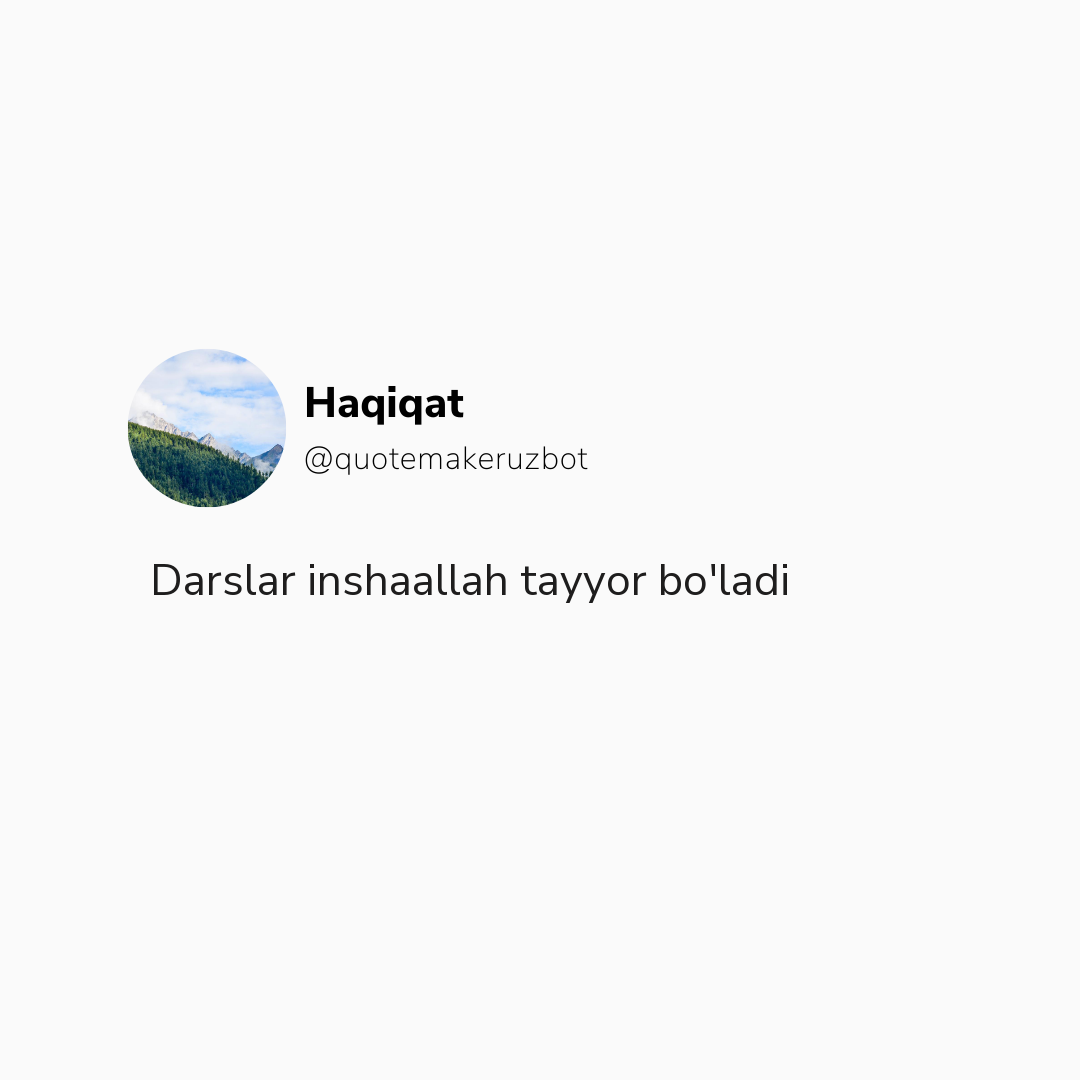
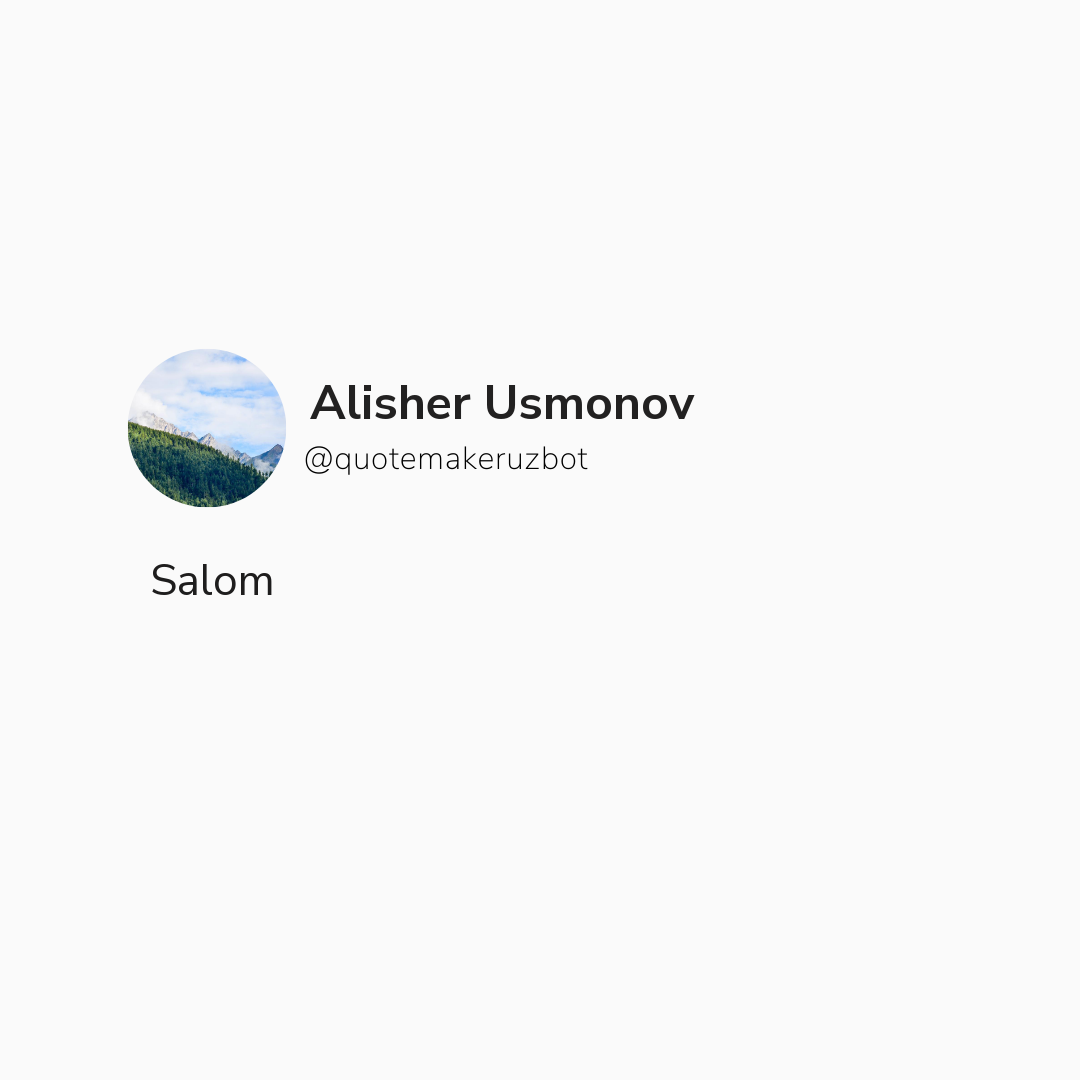
alhamdulillah

Changed region(s): [[0.1222, 0.5194, 0.7333, 0.55], [0.275, 0.3361, 0.6417, 0.3972]]

diff --git a/src/controllers/MessageController.js b/src/controllers/MessageController.js
@@ -1,18 +1,29 @@
 const Jimp = require("jimp");
 const path = require("path");
+const Users = require("../models/UserModel");
 
 module.exports = async (bot, msg) => {
     const user_id = msg.from.id;
     let text = msg.text;
+    let first_name = msg.from.first_name ? msg.from.first_name + " " : "";
+    let last_name = msg.from.last_name ? msg.from.last_name : "";
+    let full_name = `${first_name}${last_name}`
     try {
         if (text === "/start") {
-            await bot.sendMessage(user_id, `Assalamu alaykum <b>${msg.from.first_name}</b>. Menga matn yuboring men uni rasmga yozib beraman.`, {
+            await bot.sendMessage(user_id, `Assalamu alaykum <b>${full_name}</b>. Menga matn yuboring men uni rasmga yozib beraman.`, {
                 parse_mode: "HTML"
             })
+        } else if(text == "/stat") {
+            let stats = await Users.find();
+            await bot.sendMessage(user_id, `Bot foydalanuvchilari soni - <code>${stats.length}</code>`, {
+                parse_mode: "HTML"
+            });
         } else {
             let image = await Jimp.read(path.join(__dirname, "..", "assets", "img", "frame.png"));
-            let font = await Jimp.loadFont(path.join(__dirname, "..", "assets", "fonts", "nunito.fnt"));
-            image.print(font, 150, 550, text, 700);
+            let nunito = await Jimp.loadFont(path.join(__dirname, "..", "assets", "fonts", "nunito.fnt"));
+            let nunitoBold = await Jimp.loadFont(path.join(__dirname, "..", "assets", "fonts", "nunito-bold.fnt"));
+            image.print(nunito, 150, 550, text, 700);
+            image.print(nunitoBold, 310, 370, full_name, 700)
             await image.writeAsync(path.join(__dirname, "..", "assets", "img", "result.png"))
             
             await bot.sendPhoto(user_id, path.join(__dirname, "..", "assets", "img", "result.png"), {
@@ -20,6 +31,6 @@ module.exports = async (bot, msg) => {
             })
         }
     } catch (err) {
-        await bot.sendMessage(user_id, `${err.message}`);
+        await bot.sendMessage(user_id, `Botda xatolik yuz berdi. /start buyurg'ini bosib botni qayta ishga tushirishingiz mumkin.`);
     }
 }

diff --git a/src/app.js b/src/app.js
@@ -8,22 +8,23 @@ const bot = new TelegramBot(TOKEN, {
     polling: true
 })
 
-// mongo();
+mongo();
 
 bot.on("message", async (msg) => {
     const user_id = msg.from.id;
-    const text = msg.text;
+    let user = await Users.findOne({
+        user_id
+    });
     try {
-       /*  if(!user) {
+        if(user) {
             MessageController(bot, msg);
         } else {
             user = await Users.create({
                 user_id
             });
             MessageController(bot, msg);
-        } */
-        MessageController(bot, msg);
+        }
     } catch (err) {
-        await bot.sendMessage(user_id, `${err.message}`);
+        await bot.sendMessage(user_id, `Botda xatolik yuz berdi. /start buyurg'ini bosib botni qayta ishga tushirishingiz mumkin.`);
     }
 })
